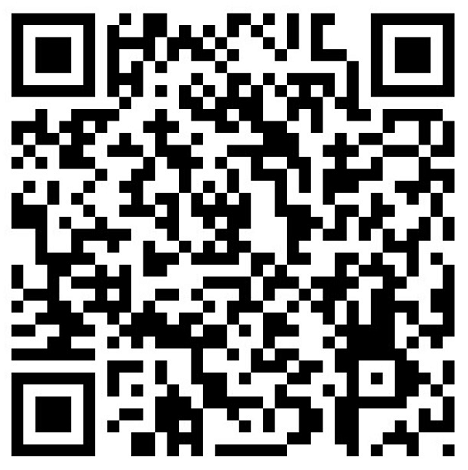
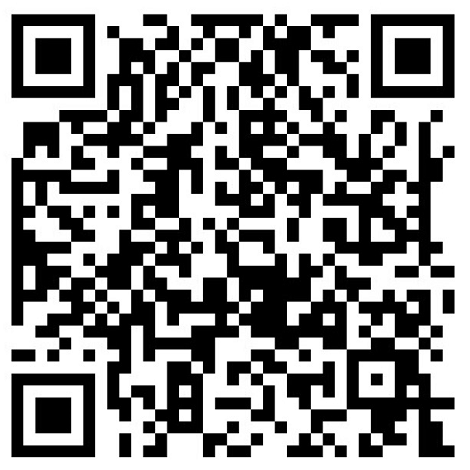
原理剖析（第 002 篇）synchronized工作原理分析

diff --git a/doc/flow-analysis/synchronized.md b/doc/flow-analysis/synchronized.md
@@ -1,0 +1,345 @@
+# 原理剖析（第 002 篇）synchronized工作原理分析
+-
+
+## 一、大致介绍
+
+``` 
+1、用过synchronized的童鞋都知道这个关键字是Java中用于解决并发情况下数据的同步访问；
+2、保证方法或者代码块在运行时，同一时刻只有一个方法可以进入到临界区，同时它还可以保证共享变量的内存可见性；
+3、总的来说，其作用有三个特性：互斥性(确保线程互斥的访问同步代码)、可见性(保证共享变量的修改能够及时可见)、有序性(有效解决重排序问题)；
+4、本章节就此和大家分享一下synchronized底层语义原理；
+```
+
+
+## 二、特性
+
+### 2.1 互斥性
+
+``` 
+1、互斥性，可以认为独享的意思，每次只允许一个操作者拥有共享资源；
+
+2、被synchronized修饰的代码块、实例方法、静态方法，多线程并发访问时，只能有一个线程获取到锁，其它线程都处于阻塞等待，
+   但在此期间，这些线程仍然可以访问其它非synchronized修饰的方法；
+```
+
+### 2.2 可见性
+
+``` 
+1、可见性，就是每次线程的到来，都能访问到最新的值；
+
+2、因为在互斥性的基础上，由于每次仅有一个线程执行临界区的代码，因此其修改的任何变量值对于稍后执行该临界区的线程来说是可见的；
+
+3、再多说一句，因为互斥性的存在，也保证了临界区变量修改的原子性，而volatile仅仅只能保证变量修改的可见性，并不能保证原子性；
+```
+
+
+### 2.3 有序性
+
+``` 
+1、有序性，就是按照顺序来执行；
+
+2、同样因为在互斥性的基础上，代码块也好，实例方法或静态方法也好，一旦被synchronized后，各个线程相互竞争，反正每次只能有一个线程执行；
+
+3、打个比方，举例静态方法，TestSynchronized.java 中有个静态 synchronized static test(){ i++, j++} 方法，
+   并且代码块被synchronized修饰，让N个线程都去调用这个方法，最后会发现每次i和j的输出值都是一样的。
+   i++和j++要么一起执行完，要么都不执行，不会出现先i++后，执行了其他代码，过一会再执行j++的情况。
+```
+
+
+## 三、反编译查看字节码
+
+### 3.1、反编译同步代码块
+
+``` 
+1、通过 javap -verbose 反编译代码块(反编译的汇编代码就不粘贴出来了)，最后会发现被反编译的代码块的前后被monitorenter、monitorexit一对指令包夹着；
+
+2、关于这两条指令的作用，我们直接参考JVM规范中描述：
+
+	monitorenter ：
+	
+	Each object is associated with a monitor. A monitor is locked if and only if it has an owner. The thread that executes monitorenter attempts to gain ownership of the monitor associated with objectref, as follows:
+	• If the entry count of the monitor associated with objectref is zero, the thread enters the monitor and sets its entry count to one. The thread is then the owner of the monitor.
+	• If the thread already owns the monitor associated with objectref, it reenters the monitor, incrementing its entry count.
+	• If another thread already owns the monitor associated with objectref, the thread blocks until the monitor's entry count is zero, then tries again to gain ownership.
+
+
+	monitorexit：　
+	
+	• The thread that executes monitorexit must be the owner of the monitor associated with the instance referenced by objectref.
+	• The thread decrements the entry count of the monitor associated with objectref. If as a result the value of the entry count is zero, the thread exits the monitor and is no longer its owner. Other threads that are blocking to enter the monitor are allowed to attempt to do so.
+
+3、monitorenter指令JVM规范翻译：
+	每个对象有打自娘胎出来就自带一个内置监视器锁（monitor）。当monitor被占用时就会处于锁定状态，线程执行monitorenter指令时尝试获取monitor的所有权，过程如下：
+	• 如果monitor的进入数为0，则该线程进入monitor，然后将进入数设置为1，该线程即为monitor的所有者。
+	• 如果线程已经占有该monitor，只是重新进入，则进入monitor的进入数加1.
+	• 如果其他线程已经占用了monitor，则该线程进入阻塞状态，直到monitor的进入数为0，再重新尝试获取monitor的所有权。
+
+4、monitorexit指令JVM规范翻译：
+	• 执行monitorexit的线程必须是objectref所对应的monitor的所有者。
+	• 指令执行时，monitor的进入数减1，如果减1后进入数为0，那线程退出monitor，不再是这个monitor的所有者。其他被这个monitor阻塞的线程可以尝试去获取这个 monitor 的所有权。
+```
+
+
+### 3.2、反编译同步方法
+
+``` 
+1、通过 javap -verbose 反编译同步方法(反编译的汇编代码就不粘贴出来了)，最后会发现被反编译的同步方法附近有一个ACC_SYNCHRONIZED标示符；
+
+2、关于ACC_SYNCHRONIZED指令的作用，我们直接参考JVM规范中描述：
+	
+	ACC_SYNCHRONIZED：
+
+	Method-level synchronization is performed implicitly, as part of method invocation and return. 
+	A synchronized method is distinguished in the run-time constant pool's methodinfo structure by the ACCSYNCHRONIZED flag, which is checked by the method invocation instructions. 
+	When invoking a method for which ACC_SYNCHRONIZED is set, the executing thread enters a monitor, invokes the method itself, and exits the monitor whether the method invocation completes normally or abruptly. 
+	During the time the executing thread owns the monitor, no other thread may enter it. 
+	If an exception is thrown during invocation of the synchronized method and the synchronized method does not handle the exception, the monitor for the method is automatically exited before the exception is rethrown out of the synchronized method.
+
+3、ACC_SYNCHRONIZED指令JVM规范翻译：
+	• 方法级的同步是隐式的。同步方法的常量池中会有一个ACC_SYNCHRONIZED标志。
+	• 当某个线程要访问某个方法的时候，会检查是否有ACC_SYNCHRONIZED，
+	• 如果有设置，则需要先获得监视器锁，然后开始执行方法，方法执行之后再释放监视器锁。
+	• 这时如果其他线程来请求执行方法，会因为无法获得监视器锁而被阻断住。
+	• 值得注意的是，如果在方法执行过程中，发生了异常，并且方法内部并没有处理该异常，那么在异常被抛到方法外面之前监视器锁会被自动释放。
+```
+
+
+
+### 3.3、反编译小结
+
+``` 
+无论是monitorenter、 monitorexit，或者是ACC_SYNCHRONIZED，其都是基于Monitor实现的，因此接下来有必要了解下Monitor是什么东西，在了解Monitor的时候，我们还有必要了解下java对象头。
+```
+
+
+
+
+## 四、Java对象头、Monitor
+
+### 4.1、Java对象头
+
+``` 
+1、在JVM中，对象在内存中的布局分为三块区域：对象头、实例数据和填充数据，这个在下面图3、图4、图5都可以看到布局图，例如“实例对象(对象锁)”；
+
+2、而Java对象头里面包含Mark Word( 存储对象的hashCode、锁信息或分代年龄或GC标志等信息 )、Klass Pointer( 类型指针指向对象的类元数据，JVM通过这个指针确定该对象是哪个类的实例 )。
+
+3、至于Mark Word里面具体包含了哪些信息，结构是怎么样的，请看下面图1；
+```
+
+
+
+### 4.2、Java对象头作用
+
+``` 
+1、Java头对象，它实现synchronized的锁对象的基础；
+
+2、特别是Java对象头存储的锁信息，对synchronized的优化起到举足轻重的作用，其中轻量级锁、偏向锁是jdk6对synchronized锁进行优化后新增加的；
+
+3、至此，如果对Java对象头还不理解的话，简单粗暴的讲，我们要依赖对象头Mark Word中的锁信息判断来决定如何优化synchronized；
+
+4、如果还不理解的话，后面还会讲解到利用Java对象头的哪些信息是怎么做到synchronized锁优化的；
+```
+
+
+
+### 4.3、什么是Monitor？
+
+``` 
+Monitor其实是一种同步工具，也可以说是一种同步机制，它通常被描述为一个对象；
+
+1、对象的所有方法都被“互斥”的执行。好比一个Monitor只有一个运行“许可”，任一个线程进入任何一个方法都需要获得这个“许可”，离开时把许可归还。
+
+2、通常提供singal机制：允许正持有“许可”的线程暂时放弃“许可”，等待某个谓词成真（条件变量），而条件成立后，当前进程可以“通知”正在等待这个条件变量的线程，让他可以重新去获得运行许可。
+```
+
+
+
+### 4.4、Monitor粗俗理解
+
+``` 
+1、Java对象是天生的Monitor，每一个对象自打娘胎里出来，就带了一把看不见的锁，通常我们叫“内部锁”，或者“Monitor锁”，或者“Intrinsic lock”。
+
+2、Java对象与这把内置锁紧密关联着，每个对象都存在着一个 monitor 与之关联，当锁升级为重量级锁时，监视器Monitor这把内置锁用来监视这些线程进入特殊的房间的,他的义务是保证（同一时间）只有一个线程可以访问被保护的数据和代码。
+
+3、在Java虚拟机(HotSpot)中，monitor是由ObjectMonitor实现的，数据结构位于HotSpot虚拟机源码ObjectMonitor.hpp文件（http://hg.openjdk.java.net/jdk8/jdk8/hotspot/file/f2110083203d/src/share/vm/runtime/objectMonitor.hpp）；
+```
+
+
+
+### 4.5、Java对象头、Monitor小结
+
+``` 
+1、讲到这里，大家对synchronized的原理所涉及到的一些知识点有了大概的了解，那他们究竟是如何互相作用将synchronized玩转的呢？
+
+2、在jdk6之前，起主导作用的仍然是重量级锁，但是随着jdk6的问世，synchronized添加偏向锁、轻量级锁，优化了synchronized锁的获取方式；
+
+3、对于“无锁->偏向锁->轻量级锁”的转变，我们主要看线程的栈帧、Java对象头，源码在jdk8的synchronizer.cpp中(http://hg.openjdk.java.net/jdk8/jdk8/hotspot/file/tip/src/share/vm/runtime/synchronizer.cpp)；
+
+4、对于“轻量级锁->重量级锁”，我们主要看Monitor，源码在jdk8的objectMonitor.cpp中(http://hg.openjdk.java.net/jdk8/jdk8/hotspot/file/tip/src/share/vm/runtime/objectMonitor.cpp)；
+```
+
+
+## 五、锁的类型
+	无锁->偏向锁->轻量级锁->重量级锁，它会随着竞争情况逐渐升级。锁可以升级但不能降级，目的是为了提高获得锁和释放锁的效率。
+
+
+### 5.1、偏向锁
+
+
+``` 
+1、引入原由：大多数情况下，锁的竞争关系都是单一的，锁由同一个线程多次获取，为了降低获取锁的代价才引入了偏向锁，减少了一些不必要的CAS操作；
+
+2、偏向锁加锁流程：
+线程请求获取锁 ----→ 目前锁状态为01
+					   ¦
+					   ¦
+					   ↓           N
+				   是否偏向锁? ------------→ 利用 CAS 操作替换 Mark Word 的线程ID
+					   ¦					   ↑	¦					¦
+					   ¦Y					  ¦	¦					¦N
+					   ↓					N  ¦	¦					↓			      Y
+	¦--→	检查Mark Word是否记录当前线程ID? -----¦    ¦Y		 检测对象锁的锁偏向是否偏向? ----------→ 尝试CAS替换线程ID，
+	¦				   ¦					   	¦					¦					     此时会引发竞争，升级为轻量级锁
+	¦				   ¦Y					  	¦					¦
+	¦				   ↓					   	¦					¦
+	¦		获得偏向锁并将锁的偏向改为1  ←-------------¦					¦
+	¦				   ¦												¦
+	¦				   ¦												¦N
+	¦				   ↓												¦
+	¦			  执行同步代码块									  	¦
+	¦															    	¦
+	¦																	¦
+	¦--------------------------------------------------------------------¦											
+
+``` 
+
+
+### 5.2、轻量级锁
+
+``` 
+1、引入原由：在无锁竞争的情况下完全可以避免调用操作系统层面的重量级互斥锁，取而代之的是在monitorenter和monitorexit中只需要依靠一条CAS原子指令就可以完成锁的获取及释放。
+   当存在锁竞争的情况下，执行CAS指令失败的线程将调用操作系统互斥锁进入到阻塞状态，当锁被释放的时候被唤醒。
+
+2、轻量级锁加锁流程：
+升级为轻量级锁 ----→ 原持有偏向锁的线程在线程栈帧分配锁记录Lock Record			 ¦------→  当前线程栈帧分配锁记录
+									   ¦									¦				¦
+									   ¦									¦				¦
+									   ↓									¦				↓
+				拷贝对象锁中的对象头的Mark Word到Lock Record的Header中		  ¦	拷贝对象头的Mark Word到锁记录中			  再尝试
+									   ¦									¦				¦						¦------------¦
+									   ¦									¦				¦						¦			¦
+									   ↓					      当前线程   ¦				↓						↓			¦
+					原持有偏向锁的线程获得轻量级锁，锁标志位改为00  --------------¦	CAS操作，将对象头的锁记录指针指向当前线程锁记录? ----→  自旋计数N次
+									   ¦													 ¦										¦
+									   ¦													 ¦Y									   ¦
+									   ↓													 ↓										↓
+								原持有偏向锁的线程									 当前线程获得轻量级锁						  N次CAS还是失败的话，
+									   ¦													 ¦								  则升级为重量级锁
+									   ¦													 ¦
+									   ↓													 ↓
+							   安全点执行同步代码块										执行同步代码块
+									   ¦													 ¦
+									   ¦													 ¦
+									   ¦													 ↓
+									   ¦-------------------------------------------→   开始轻量级锁解锁
+			
+
+
+
+
+
+
+
+
+``` 
+
+
+### 5.3、重量级锁
+↓  →   ↑   ←  ¦  ↔  ↕ ↨ ► ▼ ◄ ▲ ▬
+``` 
+1、重量级锁就不用讲了，一直沿用至今，主要利用内置锁，内置锁的本质是依赖操作系统，因此内置锁对各个线程的阻塞是由操作系统完成（在Linxu下通过pthread_mutex_lock函数）；
+
+2、重量级锁加锁流程：
+											当前线程							 Y
+升级为重量级锁 ----→ 原有线程获得重量级锁，  --------------→  内置锁_owner==null? ------→  当前线程获取到锁
+				Mark Word指向内置锁Monitor指针			  ↑		 ¦
+														  ¦		 ¦N
+														  ¦		 ↓				   Y
+														  ¦	_owner==self当前线程?  -------→  重入锁获取到锁
+														  ¦		 ¦
+														  ¦		 ¦N
+														  ¦---------¦
+															自旋	 ¦
+																	¦
+																	¦
+															 尝试自旋仍未获得锁
+																	¦
+																	¦
+																	↓
+										将线程封装成ObjectWaiter插入_cxq队列中，CAS将_cxq指向该ObjectWaiter
+																	¦
+																	¦
+																	↓
+																 part挂起
+
+``` 
+
+
+### 5.4、锁分类小结
+
+``` 
+1、至此，各个锁的加锁操作已经差不多了解了一番，此刻我们应该改正monitorenter指令就是获取对象重量级锁的错误认识，很显然，优化之后，锁的获取判断次序是偏向锁->轻量级锁->重量级锁。
+
+2、偏向锁重要的两个方法fast_enter、fast_exit，jdk源码路径(http://hg.openjdk.java.net/jdk8/jdk8/hotspot/file/tip/src/share/vm/runtime/synchronizer.cpp);
+
+3、轻量级锁重要的两个方法slow_enter、slow_exit，jdk源码路径(http://hg.openjdk.java.net/jdk8/jdk8/hotspot/file/tip/src/share/vm/runtime/synchronizer.cpp);
+
+4、重量级锁重要的三个方法enter、EnterI、exit，jdk源码路径(http://hg.openjdk.java.net/jdk8/jdk8/hotspot/file/tip/src/share/vm/runtime/objectMonitor.cpp);
+``` 
+
+ 
+
+
+## 六、synchronized锁总结图片
+![](https://i.imgur.com/zyIRZZr.png)
+
+
+
+## 七、下载地址
+
+[https://gitee.com/ylimhhmily/SpringCloudTutorial.git](https://gitee.com/ylimhhmily/SpringCloudTutorial.git)
+
+SpringCloudTutorial交流QQ群: 235322432
+
+SpringCloudTutorial交流微信群: [微信沟通群二维码图片链接](https://gitee.com/ylimhhmily/SpringCloudTutorial/blob/master/doc/qrcode/SpringCloudWeixinQrcode.png)
+
+欢迎关注，您的肯定是对我最大的支持!!!
+
+
+
+
+
+
+
+
+
+
+
+
+
+
+
+
+
+
+
+
+
+
+
+
+
+
+
+
+

diff --git a/README.md b/README.md
@@ -82,7 +82,7 @@
 
 ## 四、交流沟通
 
-![微信二维码交流群](https://i.imgur.com/7lwGP5E.png)
+![微信二维码交流群](https://i.imgur.com/tQF9Dj0.png)
 
 
 
